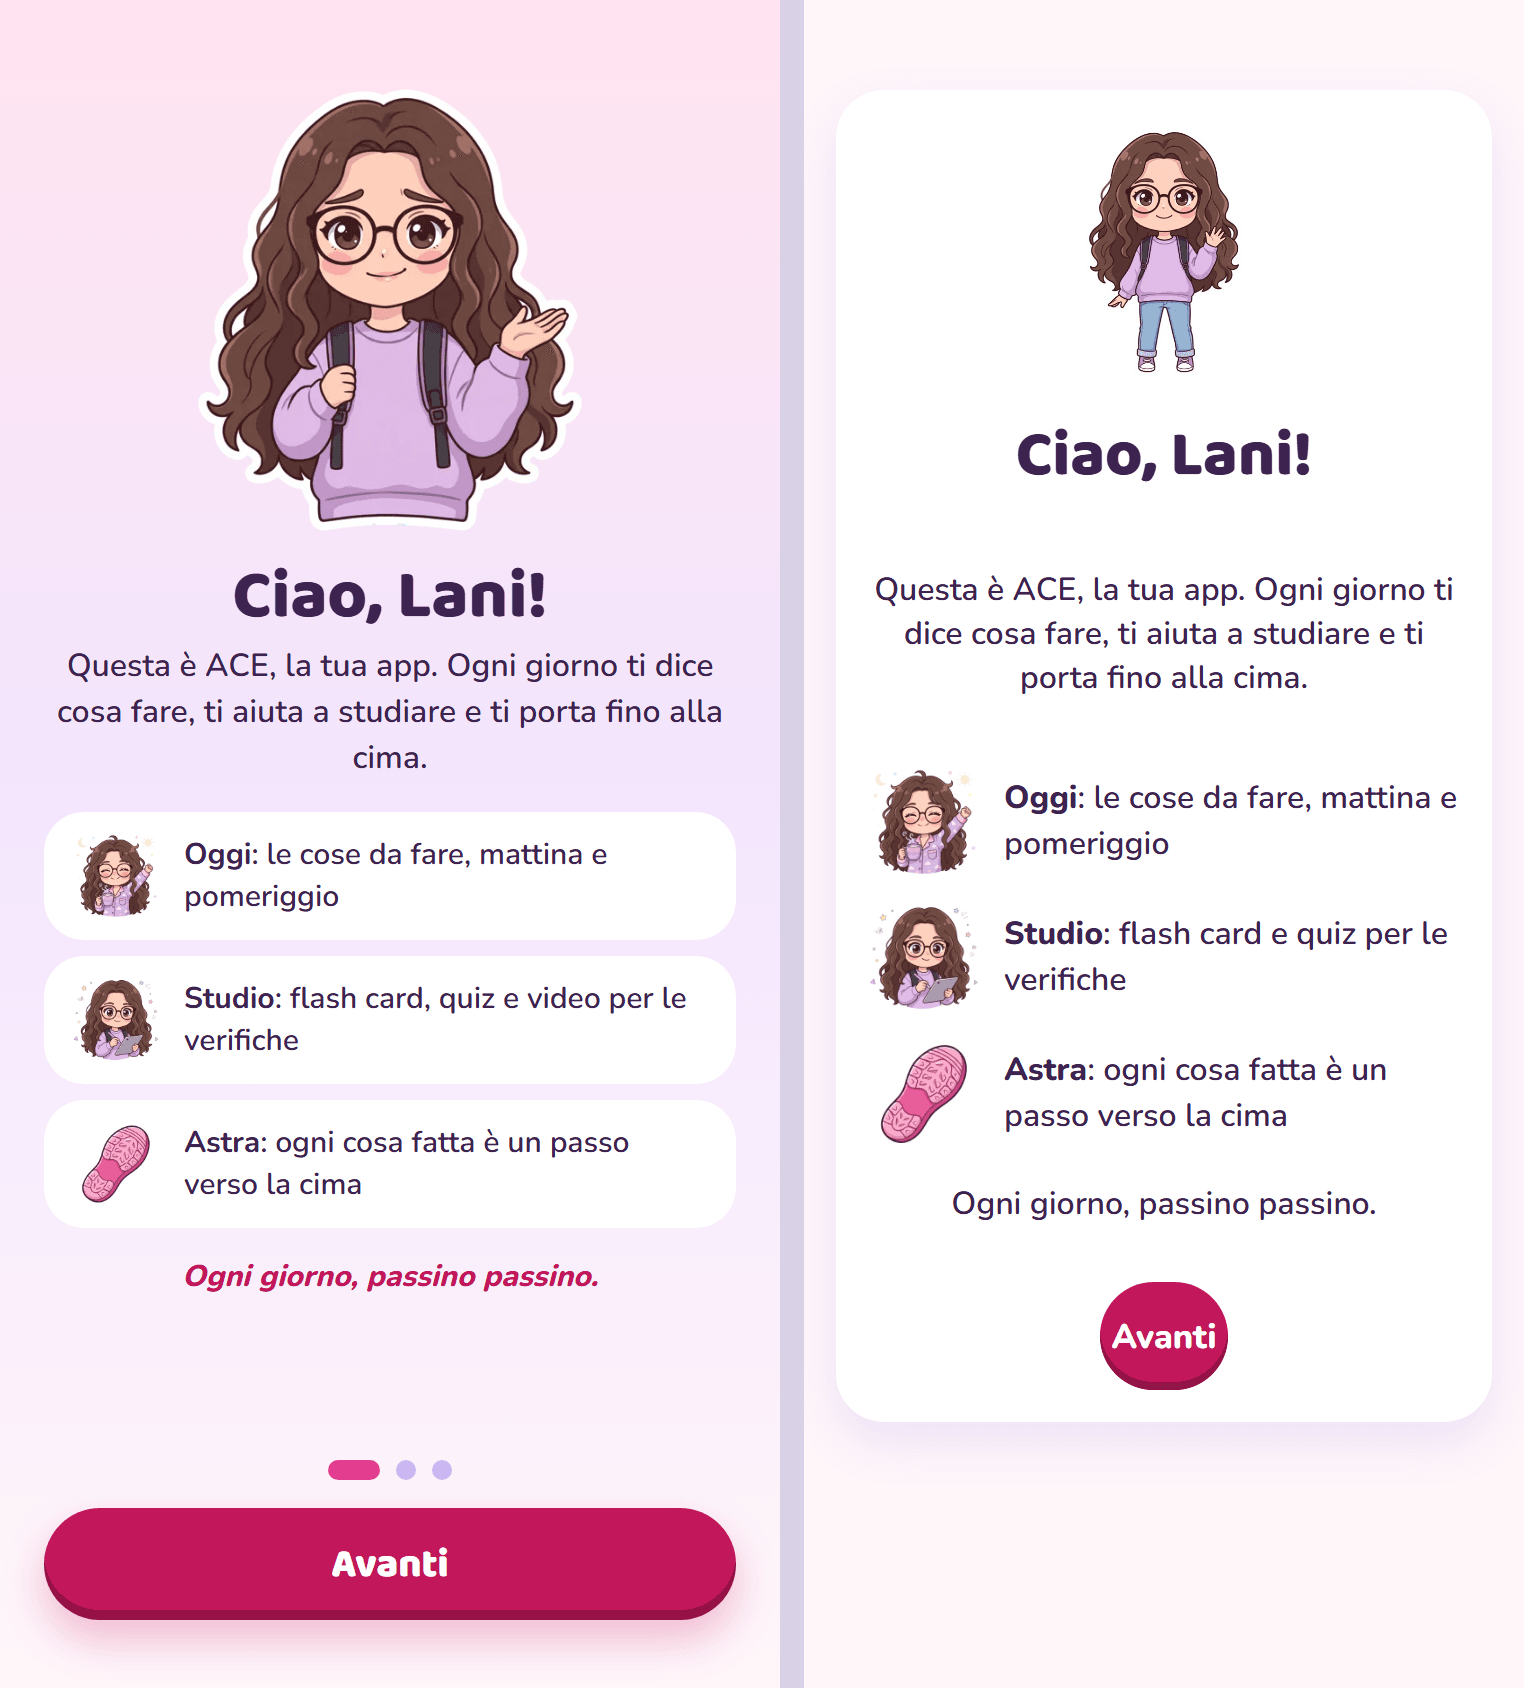
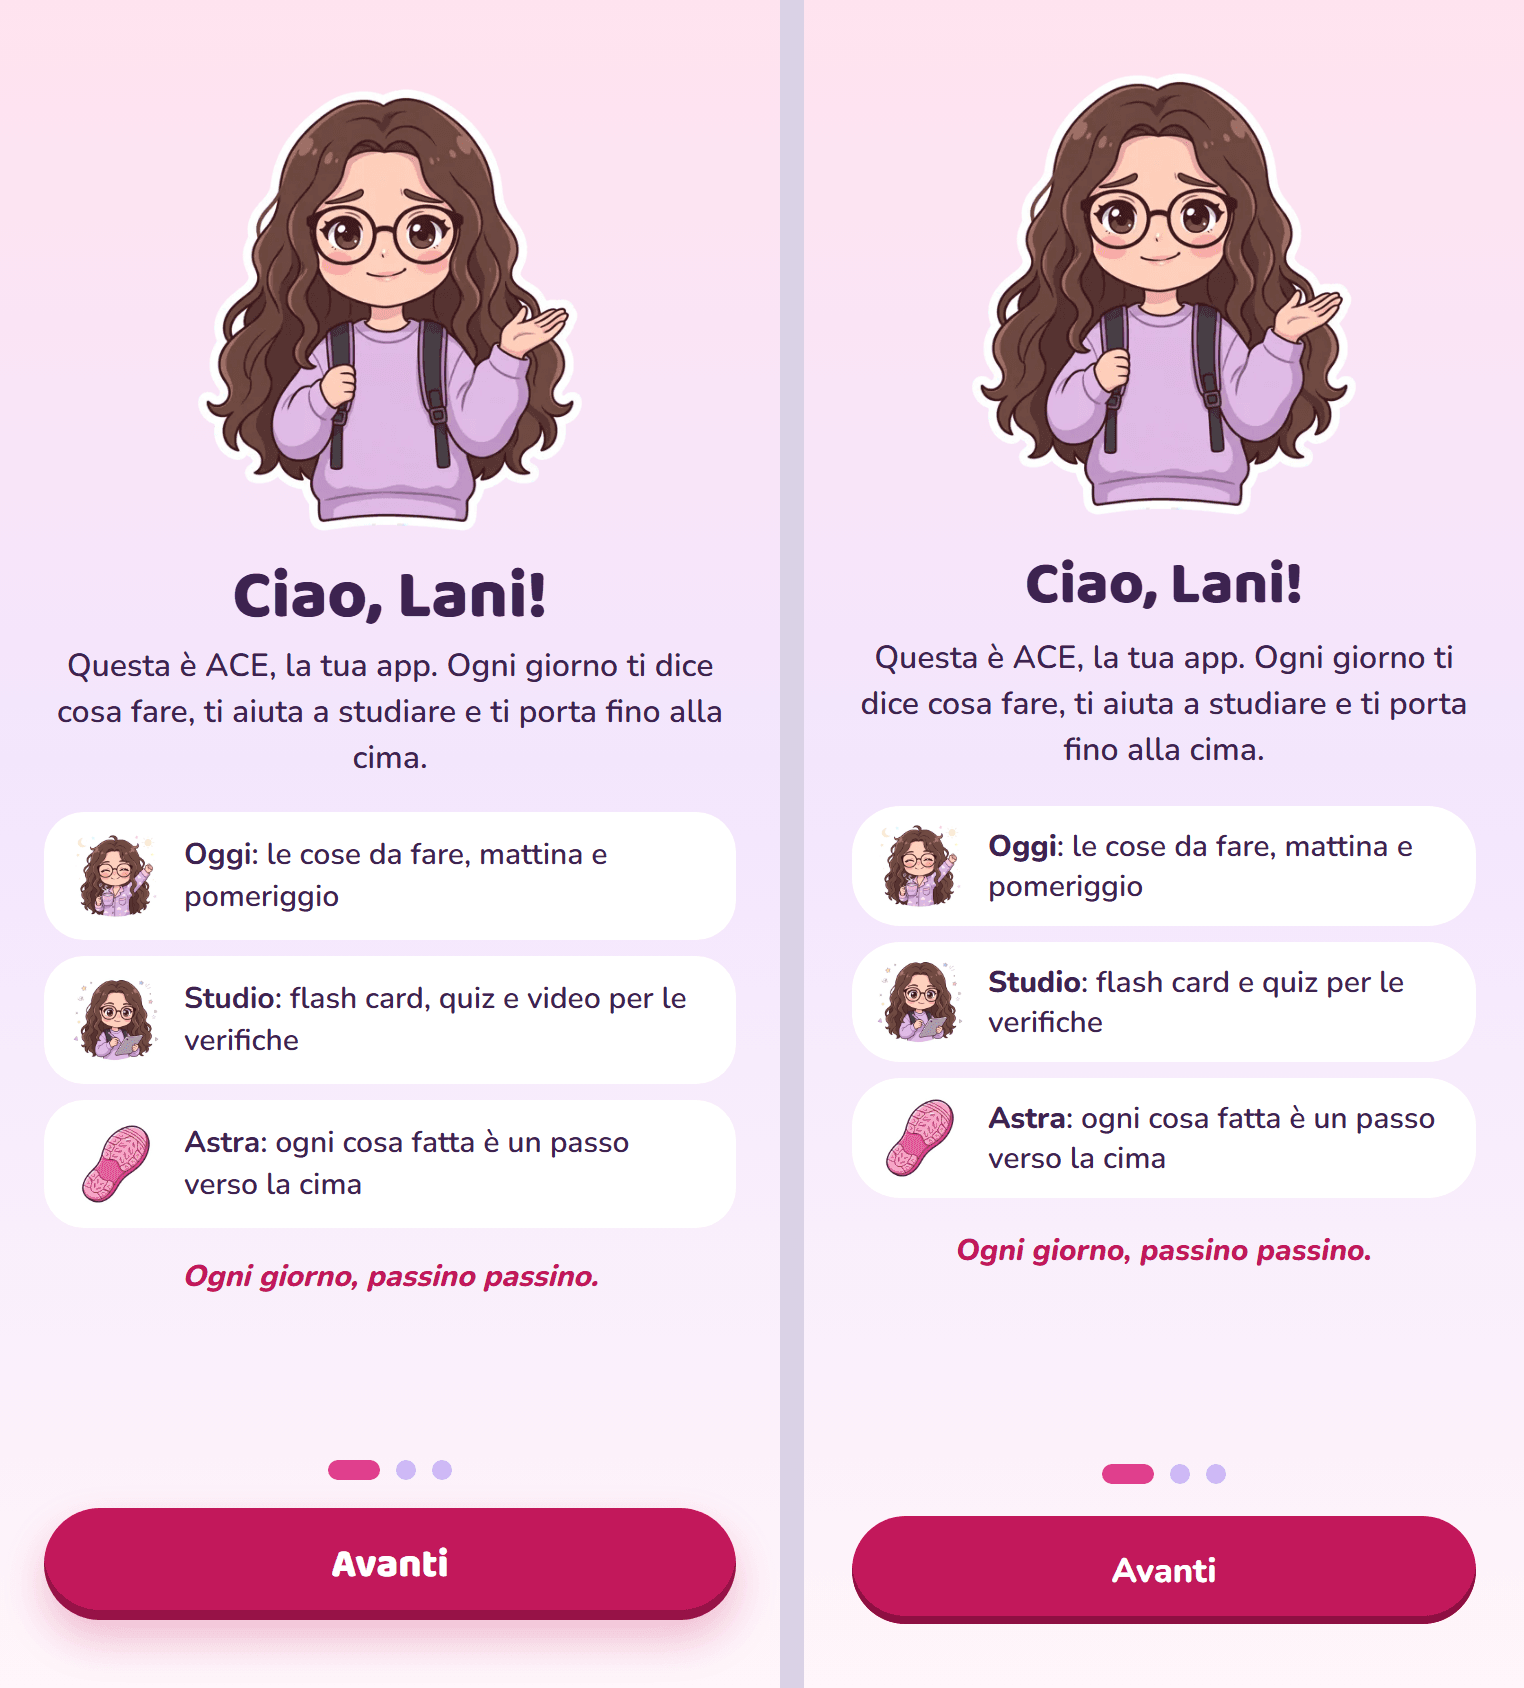
Grafica: Benvenuta e Genitori-avvio come le bozze
Benvenuta a schermo pieno su sfondo rosa e lilla, pallini dei passi e bottone in fondo, fuoco sul titolo a ogni schermata. Avvio dei genitori con mamma e papà in testata e una carta per cosa. Confronto con le bozze anche per Genitori-avvio.

Changed region(s): [[0.5243, 0.0308, 0.9869, 0.8318], [0.5551, 0.8626, 0.9869, 0.9858], [0.0617, 0.6777, 0.0925, 0.7085]]

diff --git a/src/Benvenuta.tsx b/src/Benvenuta.tsx
@@ -1,5 +1,6 @@
-import { useState } from 'react';
+import { useEffect, useRef, useState } from 'react';
 import { attivaNotifiche, notifichePossibili } from './notifiche';
+import { Sticker, useSfondo } from './kit';
 
 // Prima accensione di Lani (design/Benvenuta.html): tre schermate, una volta per dispositivo.
 // Il ricordo sta nel localStorage del dispositivo: se si perde, la benvenuta torna, niente di grave.
@@ -16,8 +17,16 @@ export const installata = () =>
   window.matchMedia?.('(display-mode: standalone)').matches || (navigator as { standalone?: boolean }).standalone === true;
 const iPhone = () => /iPhone|iPad|iPod/.test(navigator.userAgent) || (navigator.platform === 'MacIntel' && navigator.maxTouchPoints > 1);
 
+const SCHERMATE = 3;
+
 export default function Benvenuta({ fine }: { fine: () => void }) {
+  useSfondo('rosa');
   const [passo, setPasso] = useState(0);
+  const titolo = useRef<HTMLHeadingElement>(null);
+  // il bottone premuto sparisce con la schermata: il fuoco va sul titolo nuovo, così il lettore di schermo riparte da lì
+  useEffect(() => {
+    if (passo > 0) titolo.current?.focus();
+  }, [passo]);
   const chiudi = () => {
     try {
       localStorage.setItem(CHIAVE, 'fatta');
@@ -26,58 +35,74 @@ export default function Benvenuta({ fine }: { fine: () => void }) {
     }
     fine();
   };
+  const avanti = () => setPasso((p) => p + 1);
 
   return (
     <main className="benvenuta">
       {passo === 0 && (
-        <section className="carta modulo">
-          <img src="/assets/avatar/lani/lani-saluta.webp" alt="" width={130} height={130} />
-          <h1>Ciao, Lani!</h1>
-          <p>Questa è ACE, la tua app. Ogni giorno ti dice cosa fare, ti aiuta a studiare e ti porta fino alla cima.</p>
+        <>
+          <Sticker posa="lani-timida" misura={230} className="benvenuta-eroe" />
+          <div className="benvenuta-testo">
+            <h1 ref={titolo} tabIndex={-1}>Ciao, Lani!</h1>
+            <p>Questa è ACE, la tua app. Ogni giorno ti dice cosa fare, ti aiuta a studiare e ti porta fino alla cima.</p>
+          </div>
           <ul className="sezioni">
             <li>
-              <img src="/assets/avatar/lani/lani-buongiorno.webp" alt="" width={56} height={56} />
+              <Sticker posa="lani-buongiorno" misura={44} />
               <span><b>Oggi</b>: le cose da fare, mattina e pomeriggio</span>
             </li>
             <li>
-              <img src="/assets/avatar/lani/lani-concentrata.webp" alt="" width={56} height={56} />
+              <Sticker posa="lani-concentrata" misura={44} />
               <span><b>Studio</b>: flash card e quiz per le verifiche</span>
             </li>
             <li>
-              <img src="/assets/oggetti/passo.webp" alt="" width={56} height={56} />
+              <Sticker posa="passo" cartella="oggetti" misura={44} />
               <span><b>Astra</b>: ogni cosa fatta è un passo verso la cima</span>
             </li>
           </ul>
           <p className="mantra">Ogni giorno, passino passino.</p>
-          <button className="principale" onClick={() => setPasso(1)}>Avanti</button>
-        </section>
+        </>
       )}
       {passo === 1 && (
-        <section className="carta modulo">
-          <img src="/assets/avatar/lani/lani-timida.webp" alt="" width={180} height={180} />
-          <h1>Passi e chiavi</h1>
-          <p className="frase">I passi ti fanno camminare, le chiavi aprono i forzieri.</p>
-          <p>Ogni cosa fatta dà passi. La domenica sera arrivano le chiavi della settimana, da 0 a 3. Nei forzieri ci sono i premi scelti da mamma e papà.</p>
-          <button className="principale" onClick={() => setPasso(2)}>Avanti</button>
-        </section>
+        <>
+          <Sticker posa="lani-determinata" misura={230} className="benvenuta-eroe" />
+          <div className="benvenuta-testo">
+            <h1 ref={titolo} tabIndex={-1}>Passi e chiavi</h1>
+            <p className="frase">I passi ti fanno camminare, le chiavi aprono i forzieri.</p>
+            <p>Ogni cosa fatta dà passi. La domenica sera arrivano le chiavi della settimana, da 0 a 3. Nei forzieri ci sono i premi scelti da mamma e papà.</p>
+          </div>
+        </>
       )}
       {passo === 2 && (
-        <section className="carta modulo">
-          <img src="/assets/avatar/bart/bart-contento.webp" alt="" width={160} height={160} />
-          <h1>Ultima cosa</h1>
-          {!installata() && iPhone() && (
-            <p>
-              Metti ACE sulla schermata Home: in Safari tocca <b>Condividi</b>, poi <b>Aggiungi alla schermata Home</b>. Senza, i promemoria non arrivano.
-            </p>
-          )}
-          {notifichePossibili() && (
-            <button className="secondario" onClick={() => attivaNotifiche()}>
-              Attiva i promemoria (al massimo 3 al giorno)
-            </button>
-          )}
-          <button className="principale" onClick={chiudi}>Inizia</button>
-        </section>
+        <>
+          <Sticker posa="bart-contento" misura={230} className="benvenuta-eroe" />
+          <div className="benvenuta-testo">
+            <h1 ref={titolo} tabIndex={-1}>Ultima cosa</h1>
+            {!installata() && iPhone() && (
+              <p>
+                Metti ACE sulla schermata Home: in Safari tocca <b>Condividi</b>, poi <b>Aggiungi alla schermata Home</b>. Senza, i promemoria non arrivano.
+              </p>
+            )}
+            {notifichePossibili() && (
+              <button className="secondario" onClick={() => attivaNotifiche()}>
+                Attiva i promemoria (al massimo 3 al giorno)
+              </button>
+            )}
+          </div>
+        </>
       )}
+      <div className="benvenuta-piede">
+        <div className="pallini-passi" role="img" aria-label={`Passo ${passo + 1} di ${SCHERMATE}`}>
+          {Array.from({ length: SCHERMATE }, (_, i) => (
+            <span key={i} className={i === passo ? 'attivo' : undefined} />
+          ))}
+        </div>
+        {passo < SCHERMATE - 1 ? (
+          <button className="principale largo" onClick={avanti}>Avanti</button>
+        ) : (
+          <button className="principale largo" onClick={chiudi}>Inizia</button>
+        )}
+      </div>
     </main>
   );
 }

diff --git a/src/stile.css b/src/stile.css
@@ -39,6 +39,7 @@ body {
 body[data-sfondo='mattina'] { background: linear-gradient(180deg, var(--azzurrino) 0, var(--cielo-chiaro) 220px, var(--panna) 390px) no-repeat, var(--panna); }
 body[data-sfondo='pomeriggio'] { background: linear-gradient(180deg, var(--lilla) 0, var(--panna) 253px) no-repeat, var(--panna); }
 body[data-sfondo='sera'] { background: linear-gradient(180deg, var(--lilla-medio) 0, var(--lilla) 169px, var(--panna) 320px) no-repeat, var(--panna); }
+body[data-sfondo='rosa'] { background: linear-gradient(180deg, var(--rosa) 0, var(--lilla) 380px, var(--panna) 844px) no-repeat, var(--panna); }
 body[data-sfondo='viola'] { background: linear-gradient(180deg, var(--viola) 0, var(--lilla-medio) 260px, var(--rosa) 620px) no-repeat, var(--rosa); }
 h1, h2 { font-family: 'Baloo 2', Nunito, sans-serif; font-weight: 800; }
 b, strong { font-weight: 800; }
@@ -452,17 +453,39 @@ dialog.velo:focus { outline: none; }
 .notifiche-anteprima li > span { padding: 12px; border-radius: 16px; background: var(--lilla); font-size: 14px; }
 
 /* Prima accensione */
-.benvenuta { min-height: 100dvh; display: grid; align-content: center; }
-.benvenuta .carta { justify-items: center; text-align: center; }
-.benvenuta h1 { margin: 0; font-size: 32px; }
-.sezioni { list-style: none; margin: 0; padding: 0; display: grid; gap: 12px; text-align: left; }
-.sezioni li { display: flex; align-items: center; gap: 12px; }
-.frase { margin: 0; font: 800 22px/1.3 'Baloo 2', Nunito, sans-serif; color: var(--accento-premuto); }
+/* Benvenuta (bozza Benvenuta): Lani grande in alto, testo al centro, pallini e bottone in fondo; niente barra */
+.benvenuta { min-height: 100dvh; display: flex; flex-direction: column; gap: 16px; padding: 32px 24px calc(32px + env(safe-area-inset-bottom)); }
+.benvenuta-eroe { align-self: center; }
+.benvenuta-testo { display: flex; flex-direction: column; gap: 8px; text-align: center; }
+.benvenuta h1 { margin: 0; font-size: 30px; line-height: 1.05; }
+.benvenuta h1:focus { outline: none; }
+.benvenuta-testo p { margin: 0; line-height: 1.45; }
+.benvenuta .mantra { margin: 0; text-align: center; font: italic 800 15px Nunito, sans-serif; color: var(--accento); }
+.benvenuta-piede { margin-top: auto; display: flex; flex-direction: column; align-items: center; gap: 16px; }
+.pallini-passi { display: flex; gap: 8px; }
+.pallini-passi span { width: 10px; height: 10px; border-radius: 999px; background: var(--lilla-medio); }
+.pallini-passi .attivo { width: 26px; background: var(--fucsia); }
+.sezioni { list-style: none; margin: 0; padding: 0; display: grid; gap: 8px; }
+.sezioni li { display: flex; align-items: center; gap: 12px; padding: 8px 16px 8px 12px; border-radius: 24px; background: #fff; font-size: 15px; line-height: 1.35; }
+.sezioni .sticker { flex: none; }
+.frase { margin: 0; font: 800 20px/1.3 'Baloo 2', Nunito, sans-serif; color: var(--accento-premuto); }
+/* Avvio dei genitori (bozza Genitori-avvio): mamma e papà in testata, una carta per cosa, bottoni in fondo */
+body:has(.avvio) main { padding-bottom: calc(24px + env(safe-area-inset-bottom)); }
+.avvio { min-height: calc(100dvh - 40px - env(safe-area-inset-bottom)); display: flex; flex-direction: column; gap: 16px; }
+.avvio-testa { display: flex; align-items: center; gap: 12px; }
+.avvio-testa .coppia { display: flex; flex: none; }
+.avvio-testa .coppia .sticker + .sticker { margin-left: -18px; }
+.avvio-testa .sopratitolo { min-height: 0; font: 800 14px Nunito, sans-serif; }
+.avvio-testa h1 { margin: 0; font-size: 26px; line-height: 1.05; }
+.avvio > p { margin: 0; line-height: 1.45; }
 .avvio ol { margin: 0; padding: 0; list-style: none; display: grid; gap: 12px; }
-.avvio li { display: grid; grid-template-columns: 36px 1fr; gap: 12px; align-items: start; }
-.avvio .segno { width: 32px; height: 32px; border-radius: 50%; display: grid; place-items: center; background: var(--lilla); font-weight: 800; }
-.avvio .fatto .segno { background: var(--verde); color: #fff; }
-.avvio small { display: block; color: var(--testo-2); }
+.avvio li { display: flex; align-items: center; gap: 12px; padding: 12px 16px; }
+.avvio li b { display: block; font-size: 15px; }
+.avvio .segno { flex: none; width: 32px; height: 32px; border-radius: 50%; display: grid; place-items: center; background: var(--rosa); color: var(--accento); font: 800 17px 'Baloo 2', Nunito, sans-serif; }
+.avvio .fatto .segno { background: var(--accento); color: #fff; }
+.avvio small { display: block; font: 700 13px/1.35 Nunito, sans-serif; color: var(--testo-2); }
+.avvio-piede { margin-top: auto; display: flex; flex-direction: column; gap: 8px; }
+.avvio-piede .link { color: var(--testo-2); font: 800 14px Nunito, sans-serif; }
 
 /* revisione UI, regola 2: il testo fuori dalle carte parte a 20 px (16 di main + 4) */
 .sera > h1, .album-pagina > h1, .album-pagina > h2, .sera > .sopratitolo, .sera > p { padding-left: 4px; }

diff --git a/src/Genitori.tsx b/src/Genitori.tsx
@@ -593,25 +593,34 @@ function Avvio({ client, vai }: { client: SupabaseClient; vai: (p: Pagina) => vo
     { fatto: installata(), titolo: 'Metti ACE sulla schermata Home', testo: 'Da Safari: Condividi, poi Aggiungi alla schermata Home. Senza, niente notifiche' },
   ];
   return (
-    <section className="sera avvio">
-      <p className="sopratitolo">Per mamma e papà</p>
-      <h1>Prepariamo ACE</h1>
+    <section className="avvio">
+      <header className="avvio-testa">
+        <span className="coppia">
+          <Sticker posa="papa-passaggio" misura={70} />
+          <Sticker posa="mamma-passaggio" misura={70} />
+        </span>
+        <div>
+          <p className="sopratitolo">Per mamma e papà</p>
+          <h1>Prepariamo ACE</h1>
+        </div>
+      </header>
       <p>Quattro cose, una volta sola. Il resto lo fa ACE da solo, due volte al giorno.</p>
-      <div className="carta">
-        <ol>
-          {cose.map((c, i) => (
-            <li key={c.titolo} className={c.fatto ? 'fatto' : undefined}>
-              <span className="segno" aria-label={c.fatto ? 'fatto' : `passo ${i + 1}`}>{c.fatto ? '✓' : i + 1}</span>
-              <span>
-                <b>{c.titolo}</b>
-                <small>{c.testo}</small>
-              </span>
-            </li>
-          ))}
-        </ol>
+      <ol>
+        {cose.map((c, i) => (
+          <li key={c.titolo} className={`carta${c.fatto ? ' fatto' : ''}`}>
+            <span className="segno" aria-hidden>{c.fatto ? '✓' : i + 1}</span>
+            <span>
+              <b>{c.titolo}</b>
+              <span className="solo-lettori">{c.fatto ? ' (fatto)' : ' (da fare)'}</span>
+              <small>{c.testo}</small>
+            </span>
+          </li>
+        ))}
+      </ol>
+      <div className="avvio-piede">
+        <button className="principale largo" onClick={() => vai('premi')}>Scegli i premi</button>
+        <button className="link" onClick={() => vai('settimana')}>Lo faccio dopo</button>
       </div>
-      <button className="principale largo" onClick={() => vai('premi')}>Scegli i premi</button>
-      <button className="secondario" onClick={() => vai('settimana')}>Lo faccio dopo</button>
     </section>
   );
 }

diff --git a/e2e/accoglienza.e2e.ts b/e2e/accoglienza.e2e.ts
@@ -13,7 +13,11 @@ test('Lani: benvenuta in tre passi, poi Oggi; la seconda volta non torna', async
   await page.screenshot({ path: 'e2e/risultati/benvenuta.png' });
   await page.getByRole('button', { name: 'Avanti' }).click();
   await expect(page.getByText('I passi ti fanno camminare, le chiavi aprono i forzieri.')).toBeVisible();
+  await expect(page.getByRole('heading', { name: 'Passi e chiavi' })).toBeFocused();
+  await expect(page.getByRole('img', { name: 'Passo 2 di 3' })).toBeVisible();
+  await page.screenshot({ path: 'e2e/risultati/benvenuta-2.png' });
   await page.getByRole('button', { name: 'Avanti' }).click();
+  await page.screenshot({ path: 'e2e/risultati/benvenuta-3.png' });
   await page.getByRole('button', { name: 'Inizia' }).click();
   await expect(page.getByRole('heading', { name: 'Buongiorno, Lani' })).toBeVisible();
   await page.reload();
@@ -29,7 +33,9 @@ test('genitori: le quattro cose con lo stato vero', async ({ page }) => {
   });
   await page.goto('/');
   await expect(page.getByRole('heading', { name: 'Prepariamo ACE' })).toBeVisible();
-  await expect(page.locator('.avvio li').nth(0)).toHaveClass('fatto');
+  await expect(page.locator('.avvio li').nth(0)).toHaveClass(/\bfatto\b/);
+  await expect(page.locator('.avvio li').nth(1)).not.toHaveClass(/\bfatto\b/);
+  await page.screenshot({ path: 'e2e/risultati/avvio-genitori.png' });
   await expect(page.getByText('(ne mancano 8)', { exact: false })).toBeVisible();
   await page.getByRole('button', { name: 'Scegli i premi' }).click();
   await expect(page.getByText('8 forzieri ancora senza premio.', { exact: false })).toBeVisible();

diff --git a/e2e/confronto.e2e.ts b/e2e/confronto.e2e.ts
@@ -135,6 +135,16 @@ const CASI: Record<string, Caso> = {
   'Popup-bastone': { bozza: 'Popup-bastone', quando: LUNEDI_POMERIGGIO, dati: (d) => (d.popup_coda = [popup('bagno_mamma', 1, 'mamma-arrabbiata', 'Bagno da sistemare', 'Bagno da sistemare: −1. Asciugamani appesi, tappetino a posto, specchio pulito.')]) },
   'Popup-enigma': { bozza: 'Popup-enigma', quando: LUNEDI_POMERIGGIO, dati: (d) => (d.popup_coda = [popup('enigma_comparso', 3, 'lani-detective', 'Un biglietto', 'Un biglietto vicino al forziere. Riesci a decifrarlo? Hai 3 tentativi.')]) },
   Benvenuta: { bozza: 'Benvenuta', quando: LUNEDI_MATTINA, prima: true },
+  'Genitori-avvio': {
+    bozza: 'Genitori-avvio',
+    quando: LUNEDI_POMERIGGIO,
+    prima: true,
+    genitore: true,
+    dati: (d) => {
+      d.sync_log = [{ fonte: 'nuvola', esito: 'ok', iniziato_il: '2026-11-09T13:30:00Z' }];
+      d.forzieri = Array.from({ length: 9 }, (_, i) => ({ n: i + 1, premio: null }));
+    },
+  },
   Genitori: { bozza: 'Genitori', quando: LUNEDI_POMERIGGIO, genitore: true },
 };
 

diff --git a/src/kit.tsx b/src/kit.tsx
@@ -3,7 +3,7 @@ import { useEffect, type ReactNode } from 'react';
 // Kit "zucchero filato" (design/Stile.html): i pezzi che si ripetono in tutte le schermate.
 // Colori e misure stanno in stile.css come variabili; qui solo i pezzi con un po' di struttura.
 
-export type Sfondo = 'mattina' | 'pomeriggio' | 'sera' | 'viola' | 'panna';
+export type Sfondo = 'mattina' | 'pomeriggio' | 'sera' | 'viola' | 'panna' | 'rosa';
 
 /** Sfondo della schermata secondo il momento (bozze: mattina azzurro, pomeriggio lilla, sera lilla scuro). */
 export function useSfondo(sfondo: Sfondo) {
